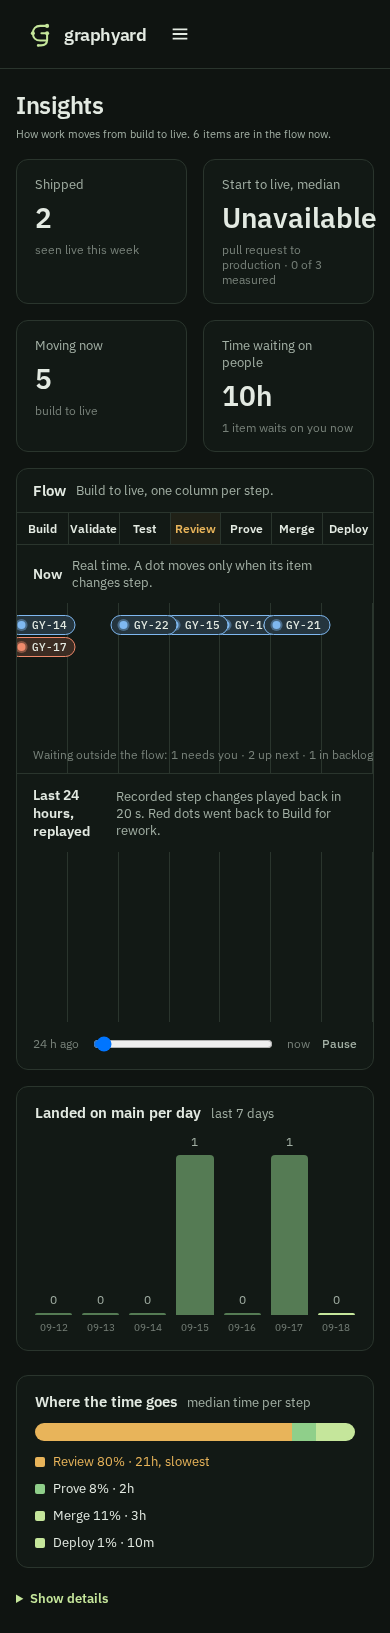
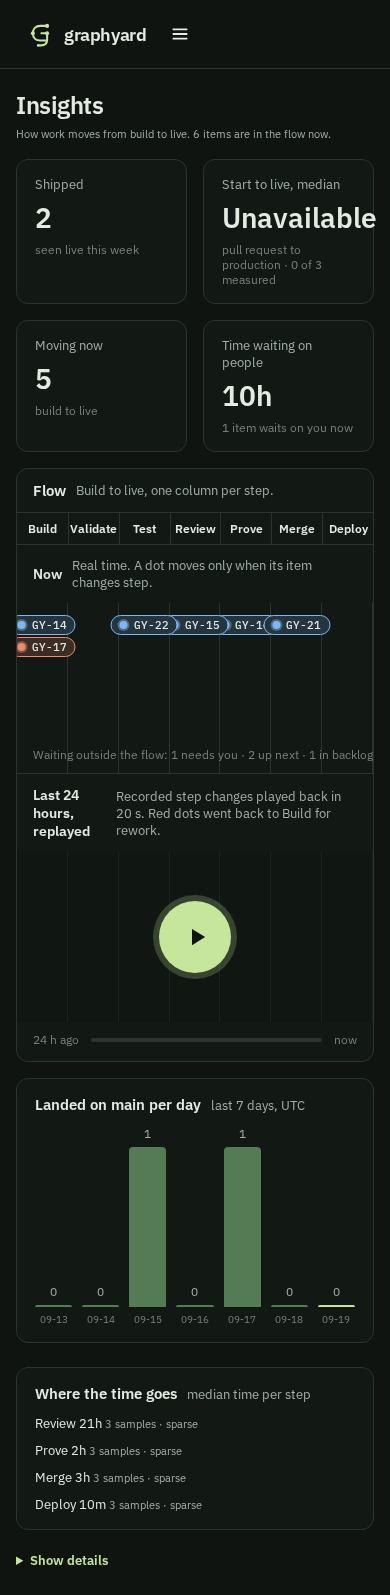
GY-204: the Flow replay waits under a video-style play button
The 24-hour replay no longer starts when the flow data loads. It stands
still at its first frame under a large, round, centred play button
('Play the last 24 hours'), runs once over replaySeconds when pressed,
shows a small pause control while playing, and ends on its last frame
under a replay button. Under prefers-reduced-motion the step-through
slider replaces the overlay. The frame loop takes an injectable clock so
tests/flow-replay-play.test.ts drives it by hand; the screenshot spec
captures the overlay at 1280 and 375 px.

diff --git a/tests/flow-replay-play.test.ts b/tests/flow-replay-play.test.ts
@@ -1,0 +1,149 @@
+import { test } from 'node:test';
+import assert from 'node:assert/strict';
+import { readFile } from 'node:fs/promises';
+import { createElement } from 'react';
+import { renderToStaticMarkup } from 'react-dom/server';
+import { replayFrames, replaySeconds } from '../web/flow-replay.js';
+import { ReplaySection, replayLoop, type FrameClock } from '../web/pages/insights-flow.js';
+
+// GY-204: the Flow page's "Last 24 hours, replayed" behaves like a video — still at its first
+// frame under a large play button until the viewer presses it, then played once.
+const root = new URL('..', import.meta.url);
+const read = (path: string) => readFile(new URL(path, root), 'utf8');
+const NOW = Date.parse('2026-09-24T12:00:00Z');
+const hour = 3_600_000;
+const frames = replayFrames([
+  { key: 'GY-1', from: null, to: 'build', at: new Date(NOW - 20 * hour).toISOString() },
+  { key: 'GY-1', from: 'build', to: 'test', at: new Date(NOW - 12 * hour).toISOString() },
+  { key: 'GY-2', from: null, to: 'build', at: new Date(NOW - 6 * hour).toISOString() },
+  { key: 'GY-2', from: 'build', to: 'review', at: new Date(NOW - 2 * hour).toISOString() },
+], NOW);
+
+/** A frame clock advanced by hand: each animation frame fires at the next 16 ms step. */
+function handClock() {
+  let now = 1_000, next = 1;
+  const pending = new Map<number, (at: number) => void>();
+  const clock: FrameClock = { now: () => now, request: tick => { pending.set(next, tick); return next++; }, cancel: frame => { pending.delete(frame); } };
+  const advance = (ms: number) => {
+    const end = now + ms;
+    while (now < end) { now = Math.min(end, now + 16); const due = [...pending.values()]; pending.clear(); for (const tick of due) tick(now); }
+  };
+  return { clock, advance, pending };
+}
+
+/** The replay as the page runs it: its state, pressed and paused by hand, on a hand clock. */
+function player() {
+  const { clock, advance, pending } = handClock();
+  const state = { t: 0, playing: false };
+  let stop: (() => void) | undefined;
+  const run = () => { stop?.(); stop = replayLoop(state.playing, state.t, clock, t => { state.t = t; }, playing => { state.playing = playing; run(); }); };
+  const render = () => renderToStaticMarkup(createElement(ReplaySection, { frames, truncated: false, initial: { ...state }, clock }));
+  // The overlay button's onClick and the pause control's, as the page wires them.
+  const press = () => { if (state.t >= 1) state.t = 0; state.playing = true; run(); };
+  const pause = () => { state.playing = false; run(); };
+  return { state, advance, pending, render, press, pause };
+}
+
+const overlay = (html: string) => /<button type="button" class="replay-overlay"([^>]*)>/.exec(html);
+
+test('unit:replay-no-autoplay — after the flow data loads the replay stands still at its first frame under a large play button, and time passing never starts it', async () => {
+  assert.ok(frames.length > 0);
+  // The replay as the Flow page mounts it once the flow data has loaded.
+  const html = renderToStaticMarkup(createElement(ReplaySection, { frames, truncated: false }));
+  const button = overlay(html);
+  assert.ok(button, 'the overlay play button is present');
+  assert.match(button![1], /aria-label="Play the last 24 hours"/);
+  assert.match(button![1], /data-replay="play"/);
+  assert.doesNotMatch(button![1], /hidden/, 'the overlay is shown');
+  assert.match(html, /<span class="replay-disc"><svg[^>]*aria-hidden="true"[\s\S]*?<path d="M8 5.5v13l10.5-6.5z"/, 'a round button with a play icon');
+  assert.match(html, /class="replay-stage" data-playing="false" data-position="0"/, 'still, at the first frame');
+  assert.doesNotMatch(html, /Pause the replay/);
+  // Time passes and nothing moves: the loop is never scheduled while the viewer has not pressed play.
+  const p = player();
+  p.advance(replaySeconds * 1000 * 2);
+  assert.equal(p.pending.size, 0);
+  assert.deepEqual(p.state, { t: 0, playing: false });
+  assert.match(p.render(), /data-playing="false" data-position="0"/);
+  // Loading the page never sets playing: the load callback only stores what was read.
+  const source = await read('web/pages/insights-flow.tsx');
+  const load = /readFlow\(api, now\)\.then\(flow => \{([\s\S]*?)\}\)\.catch/.exec(source)![1];
+  assert.doesNotMatch(load, /setPlaying|setT\(/);
+  assert.equal([...source.matchAll(/setPlaying\(true\)/g)].length, 1, 'playing is set true in one place only');
+  assert.match(source, /onClick=\{\(\) => \{ if \(t >= 1\) setT\(0\); setPlaying\(true\); \}\}/, 'and that place is the play button');
+  assert.match(source, /useState\(initial\?\.playing \?\? false\)/);
+});
+
+test('unit:replay-plays-on-press — pressing play runs the replay once over replaySeconds with a pause control, pause stops it, and the end shows a replay button', async () => {
+  const p = player();
+  p.press();
+  assert.equal(p.state.playing, true);
+  let html = p.render();
+  assert.match(overlay(html)![1], /hidden=""/, 'the overlay hides while it plays');
+  assert.match(html, /<button type="button" class="text-button replay-pause" aria-label="Pause the replay">Pause<\/button>/, 'a small pause control replaces it');
+  // Playback progresses with the clock, at replaySeconds for the whole day.
+  p.advance(replaySeconds * 1000 / 4);
+  assert.ok(Math.abs(p.state.t - 0.25) < 0.01, `a quarter through, at ${p.state.t}`);
+  p.advance(replaySeconds * 1000 / 4);
+  const half = p.state.t;
+  assert.ok(Math.abs(half - 0.5) < 0.01, `half through, at ${half}`);
+  // Pause stops it where it stands.
+  p.pause();
+  p.advance(replaySeconds * 1000);
+  assert.equal(p.state.t, half); assert.equal(p.state.playing, false); assert.equal(p.pending.size, 0);
+  html = p.render();
+  assert.match(overlay(html)![1], /aria-label="Play the last 24 hours"/, 'paused, the play button comes back');
+  assert.doesNotMatch(html, /Pause the replay/);
+  // Play resumes from there and the replay runs once, to the last frame, then stops.
+  p.press();
+  p.advance(replaySeconds * 1000 / 2 + 100);
+  assert.equal(p.state.t, 1); assert.equal(p.state.playing, false); assert.equal(p.pending.size, 0, 'it runs once, not in a loop');
+  html = p.render();
+  const end = overlay(html)![1];
+  assert.match(end, /aria-label="Replay the last 24 hours"/); assert.match(end, /data-replay="replay"/); assert.doesNotMatch(end, /hidden/);
+  assert.match(html, /data-playing="false" data-position="1"/, 'the last frame');
+  // Replay starts over from the first frame.
+  p.press();
+  assert.equal(p.state.t, 0); assert.equal(p.state.playing, true);
+  p.advance(replaySeconds * 1000 + 100);
+  assert.equal(p.state.t, 1); assert.equal(p.state.playing, false);
+  // Under prefers-reduced-motion the overlay is replaced by the step-through slider and nothing animates.
+  const source = await read('web/pages/insights-flow.tsx');
+  assert.match(source, /\{!reducedMotion\(\) && <button type="button" className="replay-overlay"/);
+  assert.match(source, /\{reducedMotion\(\) \? <input type="range"[^>]*aria-label="Replay position"/);
+  assert.match(source, /if \(!playing \|\| reducedMotion\(\)\) return;/);
+  const original = (globalThis as any).window;
+  (globalThis as any).window = { matchMedia: (query: string) => ({ matches: query === '(prefers-reduced-motion: reduce)' }) };
+  try {
+    const reduced = renderToStaticMarkup(createElement(ReplaySection, { frames, truncated: false }));
+    assert.equal(overlay(reduced), null, 'no overlay under reduced motion');
+    assert.match(reduced, /<input type="range" min="0" max="1000" aria-label="Replay position" value="1000"/, 'the slider, at the last frame');
+    const { clock, advance, pending } = handClock();
+    let t = 0;
+    assert.equal(replayLoop(true, 0, clock, next => { t = next; }, () => {}), undefined);
+    advance(replaySeconds * 1000); assert.equal(pending.size, 0); assert.equal(t, 0);
+  } finally { (globalThis as any).window = original; }
+});
+
+test('unit:replay-overlay-screenshot — the overlay spans the replay under a translucent scrim with a focusable button of at least 64 px in the dashboard colours, captured at 1280 and 375 px', async () => {
+  const css = await read('web/style.css');
+  const rule = (selector: string) => new RegExp(`${selector.replace(/[.[\]=:-]/g, m => `\\${m}`)}\\{([^}]*)\\}`).exec(css)?.[1] ?? '';
+  assert.match(rule('.replay-stage'), /position:relative/);
+  const scrim = rule('.replay-overlay');
+  assert.match(scrim, /position:absolute/); assert.match(scrim, /inset:0/, 'it spans the replay section');
+  assert.match(scrim, /background:color-mix\(in srgb,var\(--bg\) \d+%,transparent\)/, 'a translucent scrim in the page colour');
+  assert.match(rule('.replay-overlay[hidden]'), /display:none/);
+  const disc = rule('.replay-disc');
+  assert.match(disc, /border-radius:50%/, 'a round button');
+  for (const size of [/(?:^|;)width:(\d+)px/, /(?:^|;)height:(\d+)px/, /min-width:(\d+)px/, /min-height:(\d+)px/]) assert.ok(Number(size.exec(disc)?.[1]) >= 64, `${size} ≥ 64 px`);
+  assert.match(disc, /background:var\(--accent\)/); assert.match(disc, /color:var\(--on-accent\)/);
+  // Keyboard-focusable (a real <button>) with a visible focus ring drawn in a token colour.
+  assert.match(rule('.replay-overlay:focus-visible .replay-disc'), /outline:3px solid var\(--text\)/);
+  // Its colours are the dashboard's tokens alone, so it follows whichever theme the tokens define.
+  const block = css.slice(css.indexOf('.replay-stage{'), css.indexOf('\n', css.indexOf('.replay-stage{')));
+  assert.doesNotMatch(block, /#[0-9a-f]{3,8}\b|rgba?\(|hsla?\(|\b(?:white|black)\b/i);
+  // The browser suite captures the Flow page with the overlay at 1280 px and 375 px wide.
+  const spec = await read('browser-tests/screenshots.spec.ts');
+  assert.match(spec, /replayOverlayWidths = \[\{ name: 'laptop', width: 1280[^\]]*\{ name: 'small-phone', width: 375/);
+  assert.match(spec, /getByRole\('button', \{ name: 'Play the last 24 hours' \}\)/);
+  assert.match(spec, /page\.screenshot\(\{ path: `\$\{out\}\/insights-replay-overlay-\$\{viewport\.width\}\.png`/);
+});

diff --git a/web/pages/insights-flow.tsx b/web/pages/insights-flow.tsx
@@ -201,6 +201,58 @@ export function InsightsDetails({ pulse, repository, api, token, canAudit, initi
   </>;
 }
 
+/** The clock the replay runs on: the browser's animation frames, or a test's hand-advanced one. */
+export type FrameClock = { now(): number; request(tick: (at: number) => void): number; cancel(frame: number): void };
+const browserClock: FrameClock = { now: () => performance.now(), request: tick => requestAnimationFrame(tick), cancel: frame => cancelAnimationFrame(frame) };
+
+/**
+ * One run of the replay (GY-204): from position `t` it advances with the clock, reaching the end
+ * `replaySeconds` after a start from the first frame, then stops. It runs only while `playing` —
+ * nothing starts it but the viewer's press — and never under reduced motion. Returns the stop.
+ */
+export function replayLoop(playing: boolean, t: number, clock: FrameClock, setT: (t: number) => void, setPlaying: (playing: boolean) => void): (() => void) | undefined {
+  // Under reduced motion the replay never animates: the slider steps through it instead.
+  if (!playing || reducedMotion()) return;
+  let frame = 0; const started = clock.now() - t * replaySeconds * 1000;
+  const tick = (at: number) => { const next = Math.min(1, (at - started) / (replaySeconds * 1000)); setT(next); if (next < 1) frame = clock.request(tick); else setPlaying(false); };
+  frame = clock.request(tick);
+  return () => clock.cancel(frame);
+}
+
+const PlayIcon = () => <svg viewBox="0 0 24 24" width="30" height="30" aria-hidden="true" focusable="false"><path d="M8 5.5v13l10.5-6.5z" fill="currentColor"/></svg>;
+const ReplayIcon = () => <svg viewBox="0 0 24 24" width="30" height="30" aria-hidden="true" focusable="false"><path d="M12 5a7 7 0 1 1-6.6 4.7" fill="none" stroke="currentColor" strokeWidth="2.2" strokeLinecap="round"/><path d="M4.2 4.5v5.6h5.6" fill="none" stroke="currentColor" strokeWidth="2.2" strokeLinecap="round" strokeLinejoin="round"/></svg>;
+
+/**
+ * The replay, played like a video (GY-204): it waits at its first frame under a large play button
+ * and runs once, over `replaySeconds`, only when that button is pressed. While it plays the button
+ * gives way to a small pause control; at the end it holds the last frame under a replay button.
+ * Under prefers-reduced-motion there is no button: the replay shows its last frame and the
+ * slider steps through it. `initial` sets where it stands on first render.
+ */
+export function ReplaySection({ frames, truncated, initial, clock = browserClock }: { frames: ReplayFrame[]; truncated: boolean; initial?: { t: number; playing: boolean }; clock?: FrameClock }) {
+  const [t, setT] = useState(initial?.t ?? (reducedMotion() ? 1 : 0));
+  const [playing, setPlaying] = useState(initial?.playing ?? false);
+  // eslint-disable-next-line react-hooks/exhaustive-deps
+  useEffect(() => replayLoop(playing, t, clock, setT, setPlaying), [playing]);
+  const ended = t >= 1;
+  return <>
+    <div className="replay-stage" data-playing={playing} data-position={t}>
+      <ReplayLane frames={frames} t={t}/>
+      {!reducedMotion() && <button type="button" className="replay-overlay" hidden={playing} data-replay={ended ? 'replay' : 'play'} aria-label={ended ? 'Replay the last 24 hours' : 'Play the last 24 hours'} onClick={() => { if (t >= 1) setT(0); setPlaying(true); }}>
+        <span className="replay-disc">{ended ? <ReplayIcon/> : <PlayIcon/>}</span>
+      </button>}
+    </div>
+    <div className="replay-controls">
+      <span>24 h ago</span>
+      {reducedMotion() ? <input type="range" min={0} max={1000} value={Math.round(t * 1000)} aria-label="Replay position" onChange={e => setT(Number(e.target.value) / 1000)}/>
+        : <span className="replay-progress" role="progressbar" aria-label="Replay position" aria-valuemin={0} aria-valuemax={100} aria-valuenow={Math.round(t * 100)}><span style={{ width: `${t * 100}%` }}/></span>}
+      <span>now</span>
+      {playing && <button type="button" className="text-button replay-pause" aria-label="Pause the replay" onClick={() => setPlaying(false)}>Pause</button>}
+      {truncated && <small>Only the first rows of the recorded history were returned.</small>}
+    </div>
+  </>;
+}
+
 /**
  * Insights (GY-161, one page since GY-168 as design/dashboard/Insights.dc.html draws it): the
  * headline numbers, then the Flow panel, then landed per day beside where the time goes, and the
@@ -212,12 +264,12 @@ export function InsightsDetails({ pulse, repository, api, token, canAudit, initi
  * - **Now** places every open item at its true step (`prSteps`, the same reading the Work page
  *   draws). A dot is keyed by its item, so it moves only when that item's step changes.
  * - **Last 24 hours, replayed** plays the recorded step changes (web/flow-replay.ts) in
- *   twenty seconds; a return to Build is rework and is drawn red.
+ *   twenty seconds, once the viewer presses its play button; a return to Build is rework and is drawn red.
  * - **Landed on main per day** and **where the time goes** are the flow report's own daily
  *   deliveries and per-step dwell medians, computed from the same recorded step moves.
  *
  * Every animation stops under prefers-reduced-motion: the replay then shows its last frame with
- * a slider to step through it, and the CSS rule turns the dots' movement off.
+ * a slider to step through it in place of the play button, and the CSS rule turns the dots' movement off.
  */
 export default function InsightsPage({ work, status, api, token, observedAt, setSelected }: Dashboard) {
   const now = Number.isNaN(observedAt) ? Date.now() : observedAt;
@@ -225,30 +277,19 @@ export default function InsightsPage({ work, status, api, token, observedAt, set
   const [frames, setFrames] = useState<ReplayFrame[] | null>(null);
   const [truncated, setTruncated] = useState(false);
   const [error, setError] = useState('');
-  const [t, setT] = useState(1);
-  const [playing, setPlaying] = useState(false);
   const [detailed, setDetailed] = useState(false);
   const pulse = usePulse(token);
   useEffect(() => {
     let active = true;
     readFlow(api, now).then(flow => {
       if (!active) return;
+      // Loading only shows the replay: it waits, still at its first frame, for the viewer to press play.
       setReport(flow.report); setFrames(flow.frames); setTruncated(flow.truncated);
-      if (!reducedMotion()) { setT(0); setPlaying(true); }
     }).catch((e: Error) => { if (active) setError(e.message); });
     return () => { active = false; };
     // Read once per visit: the replay is the last day's record, not a live feed.
     // eslint-disable-next-line react-hooks/exhaustive-deps
   }, []);
-  useEffect(() => {
-    // Under reduced motion the replay never animates: the slider steps through it instead.
-    if (!playing || reducedMotion()) return;
-    let frame = 0; const started = performance.now() - t * replaySeconds * 1000;
-    const tick = (at: number) => { const next = Math.min(1, (at - started) / (replaySeconds * 1000)); setT(next); if (next < 1) frame = requestAnimationFrame(tick); else setPlaying(false); };
-    frame = requestAnimationFrame(tick);
-    return () => cancelAnimationFrame(frame);
-    // eslint-disable-next-line react-hooks/exhaustive-deps
-  }, [playing]);
 
   // The page reads the release view flowNow classified with, so every figure uses one reading.
   const { byGroup, release, entries: now7, outside } = flowNow(work, now, status);
@@ -278,14 +319,7 @@ export default function InsightsPage({ work, status, api, token, observedAt, set
       <div className="flow-subhead"><h3>Last 24 hours, replayed</h3><span>Recorded step changes played back in {replaySeconds} s. Red dots went back to Build for rework.</span></div>
       {frames === null ? <p className="muted flow-wait">{error ? 'No recorded history to replay.' : 'Reading the recorded step changes…'}</p>
         : frames.length === 0 ? <p className="muted flow-wait">No item changed step in the last 24 hours.</p>
-          : <ReplayLane frames={frames} t={t}/>}
-      {frames && frames.length > 0 && <div className="replay-controls">
-        <span>24 h ago</span>
-        <input type="range" min={0} max={1000} value={Math.round(t * 1000)} aria-label="Replay position" onChange={e => { setPlaying(false); setT(Number(e.target.value) / 1000); }}/>
-        <span>now</span>
-        {!reducedMotion() && <button type="button" className="text-button" onClick={() => { if (t >= 1) setT(0); setPlaying(value => !value); }}>{playing ? 'Pause' : 'Play'}</button>}
-        {truncated && <small>Only the first rows of the recorded history were returned.</small>}
-      </div>}
+          : <ReplaySection frames={frames} truncated={truncated}/>}
     </section>
     <div className="insight-charts">
       <LandedPerDay report={report}/>

diff --git a/web/style.css b/web/style.css
@@ -243,6 +243,8 @@ img.mark{width:26px;height:26px}
 .outside{position:absolute;left:var(--space-4);bottom:var(--space-2);margin:0;font-size:var(--type-tiny);color:var(--text-3)}
 .replay-dot{position:absolute;width:10px;height:10px;margin-left:-5px;border-radius:50%;background:var(--moving);transition:left .35s ease}.replay-dot.rework{background:var(--blocked)}
 .replay-controls{display:flex;align-items:center;gap:var(--space-3);padding:10px var(--space-4) 14px;font-size:var(--type-tiny);color:var(--text-3)}.replay-controls input{flex:1;padding:0}
+/* GY-204: the replay waits under a video-style play button; every colour is a token, so it follows the dashboard in either theme. */
+.replay-stage{position:relative}.replay-overlay{position:absolute;inset:0;display:flex;align-items:center;justify-content:center;width:100%;margin:0;padding:0;border:0;border-radius:0;background:color-mix(in srgb,var(--bg) 55%,transparent);color:var(--on-accent);cursor:pointer}.replay-overlay[hidden]{display:none}.replay-disc{display:flex;align-items:center;justify-content:center;width:72px;height:72px;min-width:64px;min-height:64px;border-radius:50%;background:var(--accent);color:var(--on-accent);box-shadow:0 0 0 6px color-mix(in srgb,var(--accent) 22%,transparent);transition:transform .15s ease}.replay-disc svg{margin-left:3px}.replay-overlay[data-replay=replay] .replay-disc svg{margin-left:0}.replay-overlay:hover .replay-disc{transform:scale(1.06)}.replay-overlay:focus{outline:none}.replay-overlay:focus-visible .replay-disc{outline:3px solid var(--text);outline-offset:4px}.replay-progress{flex:1;height:4px;border-radius:2px;background:var(--border);overflow:hidden}.replay-progress>span{display:block;height:100%;background:var(--moving)}.replay-pause{font-size:var(--type-tiny)}
 .flow-wait{padding:var(--space-4)}
 .insight-charts{display:grid;grid-template-columns:minmax(0,1.5fr) minmax(0,1fr);gap:var(--space-5)}
 .landed-bars{display:grid;grid-auto-flow:column;grid-auto-columns:minmax(0,1fr);gap:10px;align-items:end;min-height:200px}

diff --git a/browser-tests/screenshots.spec.ts b/browser-tests/screenshots.spec.ts
@@ -83,3 +83,25 @@ for (const viewport of viewports) test(`every page is captured at ${viewport.nam
   await page.getByRole('button', { name: 'Help' }).click();
   await shot('guide');
 });
+
+// GY-204: the Flow page's 24-hour replay waits still under its play button, as a video does,
+// captured at a laptop and a small-phone width. Pressing play starts it and the pause control appears.
+export const replayOverlayWidths = [{ name: 'laptop', width: 1280, height: 900 }, { name: 'small-phone', width: 375, height: 812 }] as const;
+for (const viewport of replayOverlayWidths) test(`the Flow replay's play overlay is captured at ${viewport.width} px`, async ({ page }) => {
+  mkdirSync(out, { recursive: true });
+  await page.setViewportSize({ width: viewport.width, height: viewport.height });
+  await open(page);
+  await nav(page, 'Insights', viewport.width < 650);
+  const play = page.getByRole('button', { name: 'Play the last 24 hours' });
+  await expect(play).toBeVisible();
+  await expect(page.locator('.replay-stage')).toHaveAttribute('data-playing', 'false');
+  const box = (await page.locator('.replay-disc').boundingBox())!;
+  expect(Math.min(box.width, box.height)).toBeGreaterThanOrEqual(64);
+  const bounds = await page.evaluate(() => ({ content: document.documentElement.scrollWidth, width: document.documentElement.clientWidth }));
+  expect(bounds.content).toBeLessThanOrEqual(bounds.width);
+  await play.scrollIntoViewIfNeeded();
+  await page.screenshot({ path: `${out}/insights-replay-overlay-${viewport.width}.png`, fullPage: true });
+  await play.click();
+  await expect(page.getByRole('button', { name: 'Pause the replay' })).toBeVisible();
+  await expect(play).toBeHidden();
+});
